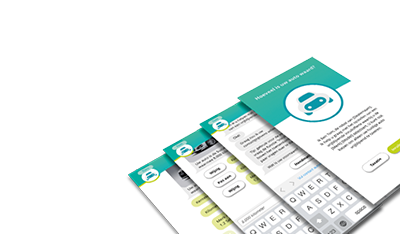
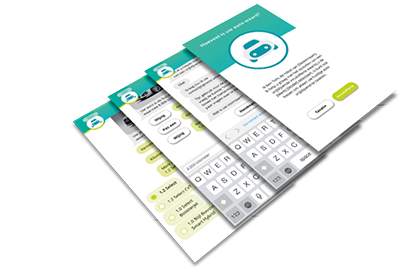
New Submit

Changed region(s): [[0.18, 0.0, 1.0, 1.0], [0.9, 0.5684, 1.0, 0.7479]]

diff --git a/main3d.css b/main3d.css
@@ -45,11 +45,11 @@ body {
 
 .bewegende-container .box::before
 {
-	content: 'ADIDAS';
+	content: 'ONLINE';
 	position: absolute;
-	top: 20px;
+	top: 10px;
 	left: 20px;
-	font-size: 4em;
+	font-size: 1em;
 	font-weight: 900;
 	color: #fff;
 	font-style: italic;
@@ -58,11 +58,11 @@ body {
 
 .bewegende-container .box::after
 {
-	content: 'SHOES';
+	content: 'TAXATIE MODULE';
 	position: absolute;
-	bottom: 20px;
+	bottom: 10px;
 	right: 20px;
-	font-size: 4em;
+	font-size: 1em;
 	font-weight: 900;
 	color: #fff;
 	font-style: italic;
@@ -73,18 +73,18 @@ body {
 .bewegende-container .box:hover::before,
 .bewegende-container .box:hover::after
 {
-	opacity: 0.04;
+	opacity: 0.3;
 }
 
 .bewegende-container .box .name{
 	position: absolute;
-	top: 0;
+	top: 40px;
 	left: 0;
 	text-align: center;
-	color: #fff;
+	color: #404040;
 	width: 100%;
 	transform-style: preserve-3d;
-	transform: translate3d(0,0,170px);
+	transform: translate3d(0,0,150px);
 	transition: 0.5s;
 	opacity: 0;
 	z-index: 10;
@@ -92,8 +92,9 @@ body {
 
 .bewegende-container .box:hover .name
 {
-	top: 40px;
+	top: 20px;
 	opacity: 1;
+	backdrop-filter: blur(10px);
 }
 
 .bewegende-container .box .buy
@@ -124,8 +125,8 @@ body {
 	position: absolute;
 	top: 50%;
 	left: 50%;
-	width: 200px;
-	height: 200px;
+	width: 180px;
+	height: 180px;
 	border-radius: 50%;
 	transition: 0.5s;
 	background: #fff;
@@ -156,7 +157,7 @@ body {
 	z-index: 12;
 	transition: 0.5s;
 	transform-style: preserve-3d;
-	transform: translate3d(-50%,-50%,60px) rotate(0deg);
+	transform: translate3d(-50%,-50%,60px) rotate(30deg);
 }
 	
 .bewegende-container .box .achtergrond
@@ -172,28 +173,27 @@ body {
 }
 
 .bewegende-container .box:hover
-{	
-border-radius: 50%;
-height: 300px;
+{
+border-radius: 20px;
 }
 	
 
 .bewegende-container .box:hover .voorgrond
 {	
 transform: translate3d(-50%,-50%,160px) rotate(0deg);
-	border-radius: 200px;
+	border-radius: 50px;
 	}
 
 .bewegende-container .box:hover .midden
 {	
-transform: translate3d(-50%,-50%,130px) rotate(0deg);
-	border-radius: 200px;
+transform: translate3d(-35%,-50%,130px) rotate(0deg);
+	border-radius: 0px;
 	}
 
 .bewegende-container .box:hover .achtergrond
 {	
-transform: translate3d(-50%,-50%,100px) rotate(-1deg);
-	border-radius: 200px;
+transform: translate3d(-60%,-50%,100px) rotate(-1deg);
+	border-radius: 0;
 	}
 	
 .bewegende-container .box:nth-child(1)

diff --git a/3d_animation.html b/3d_animation.html
@@ -79,7 +79,7 @@
 			
 			<div class="box">
 				<a href="#">
-				<h2 class="name">Product Name</h2>
+				<h2 class="name">DTC Media</h2>
 				
 				<div class="circle"></div>
 				<img src="images/dtc-media-transform-3d-1.png" alt="adidas sneaker" class="voorgrond">
